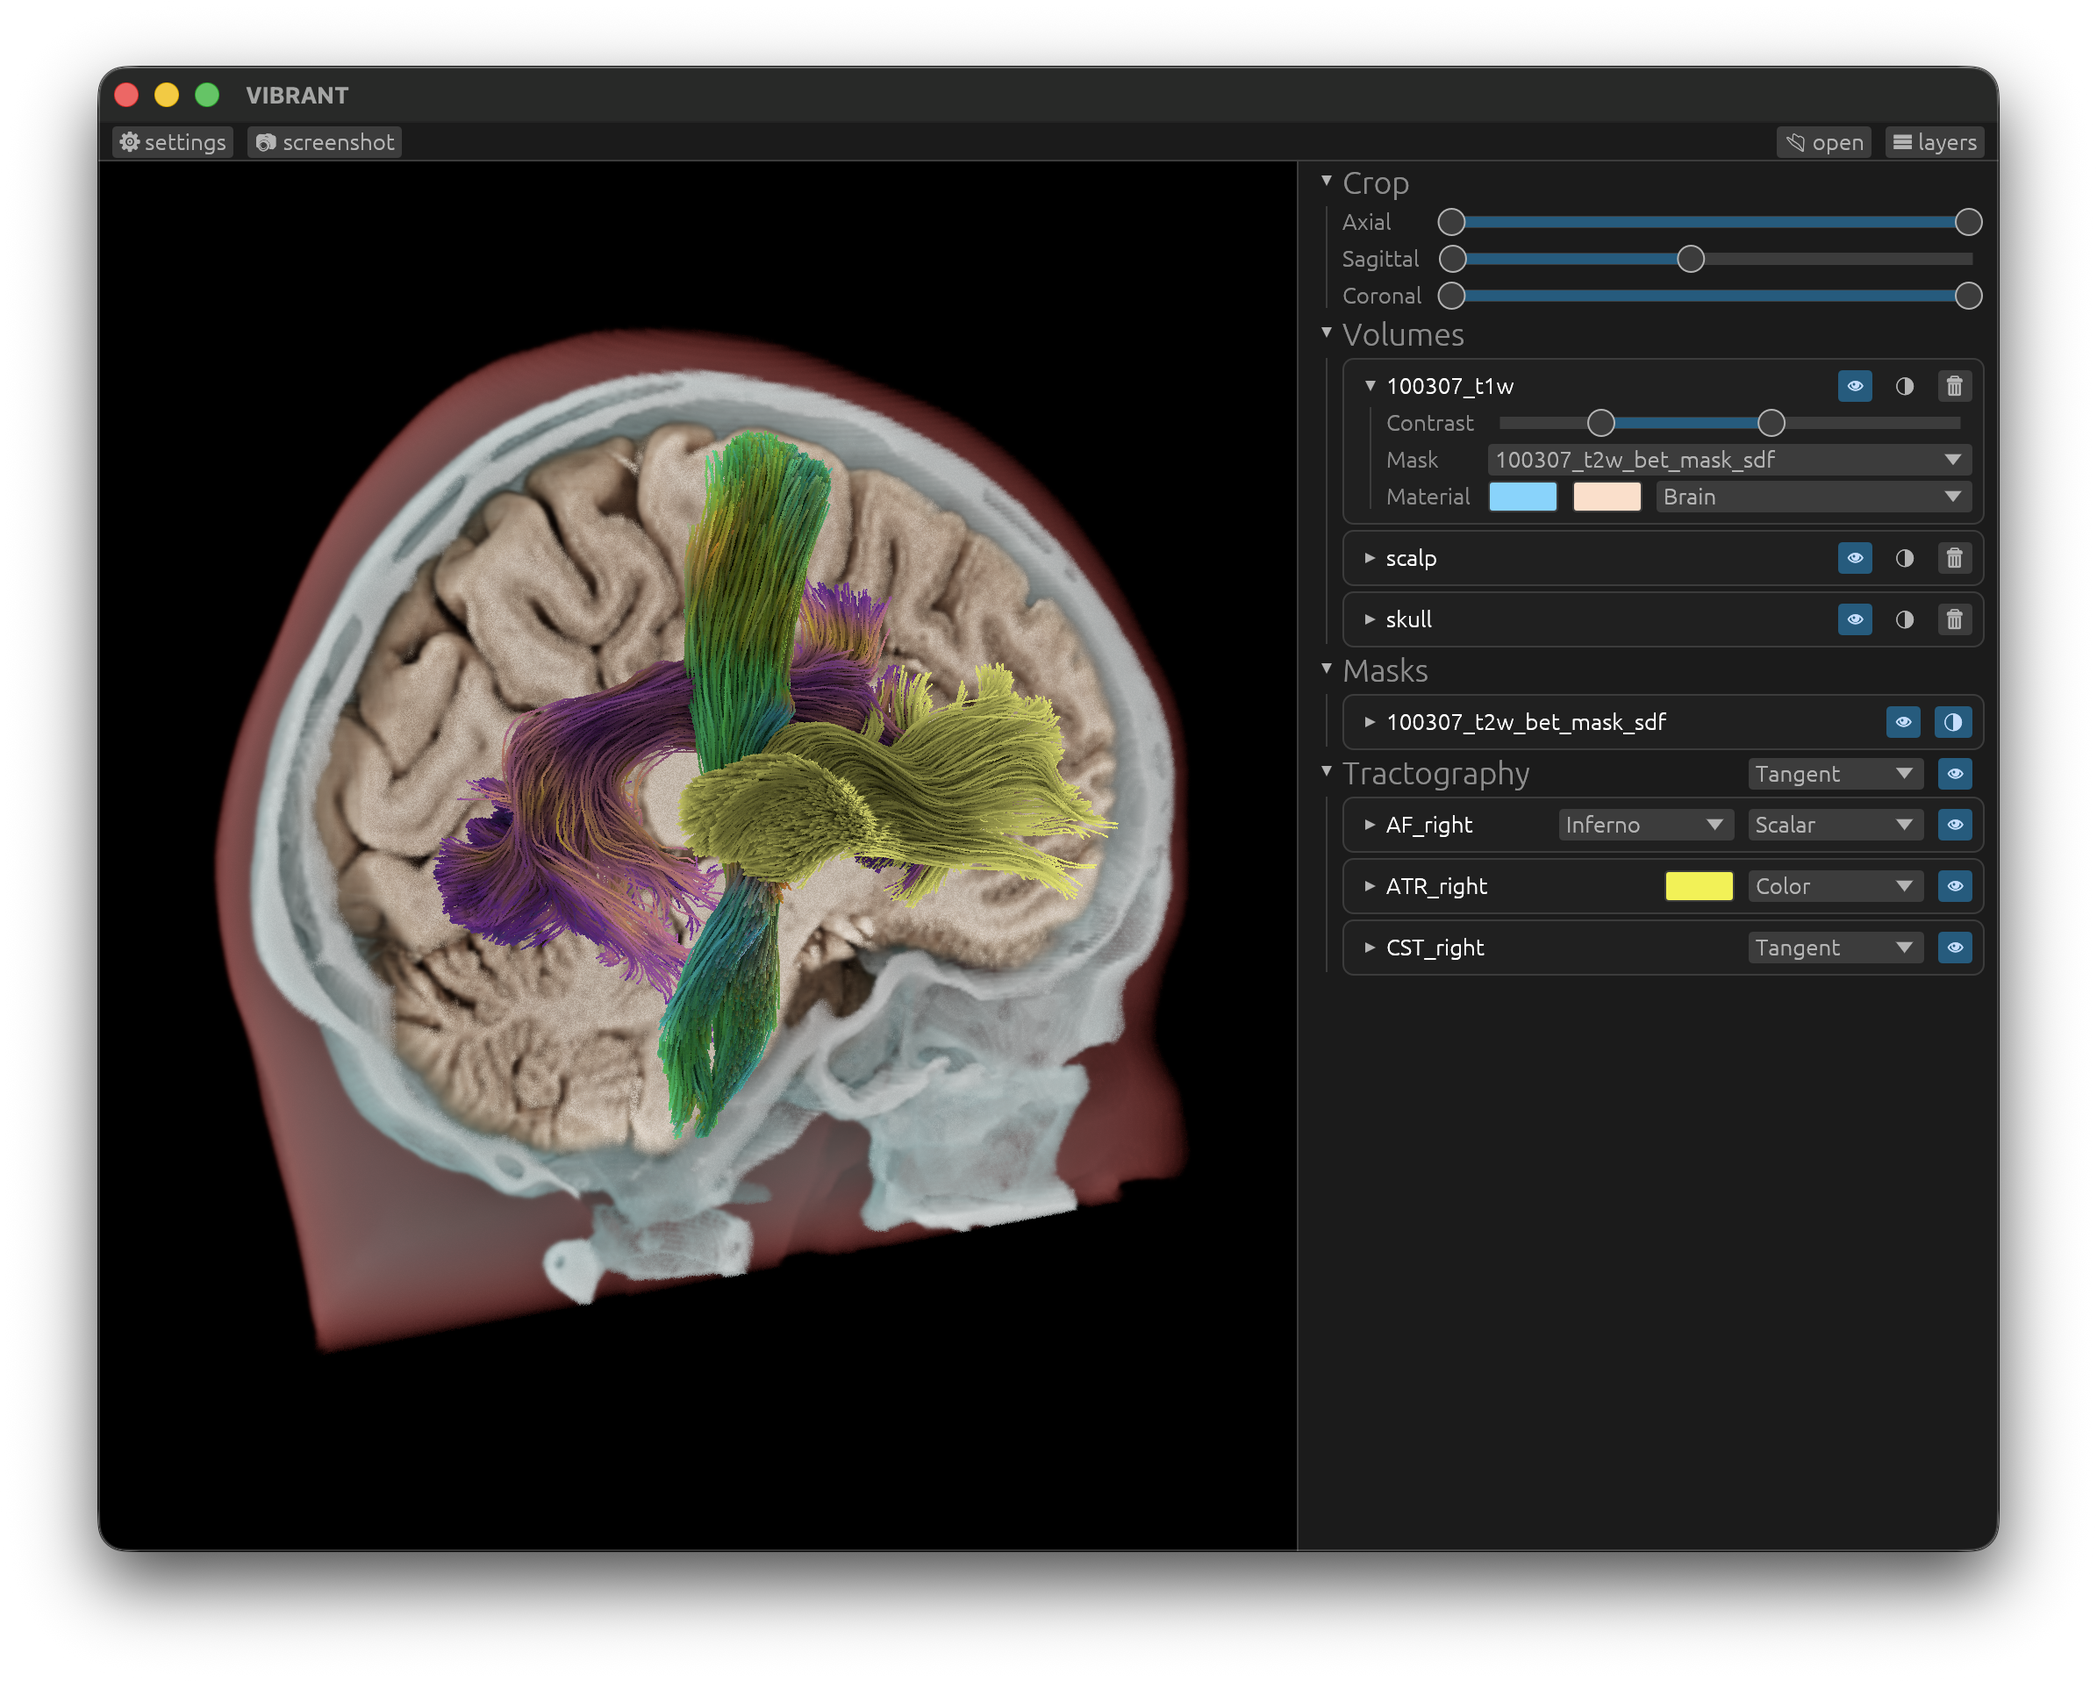
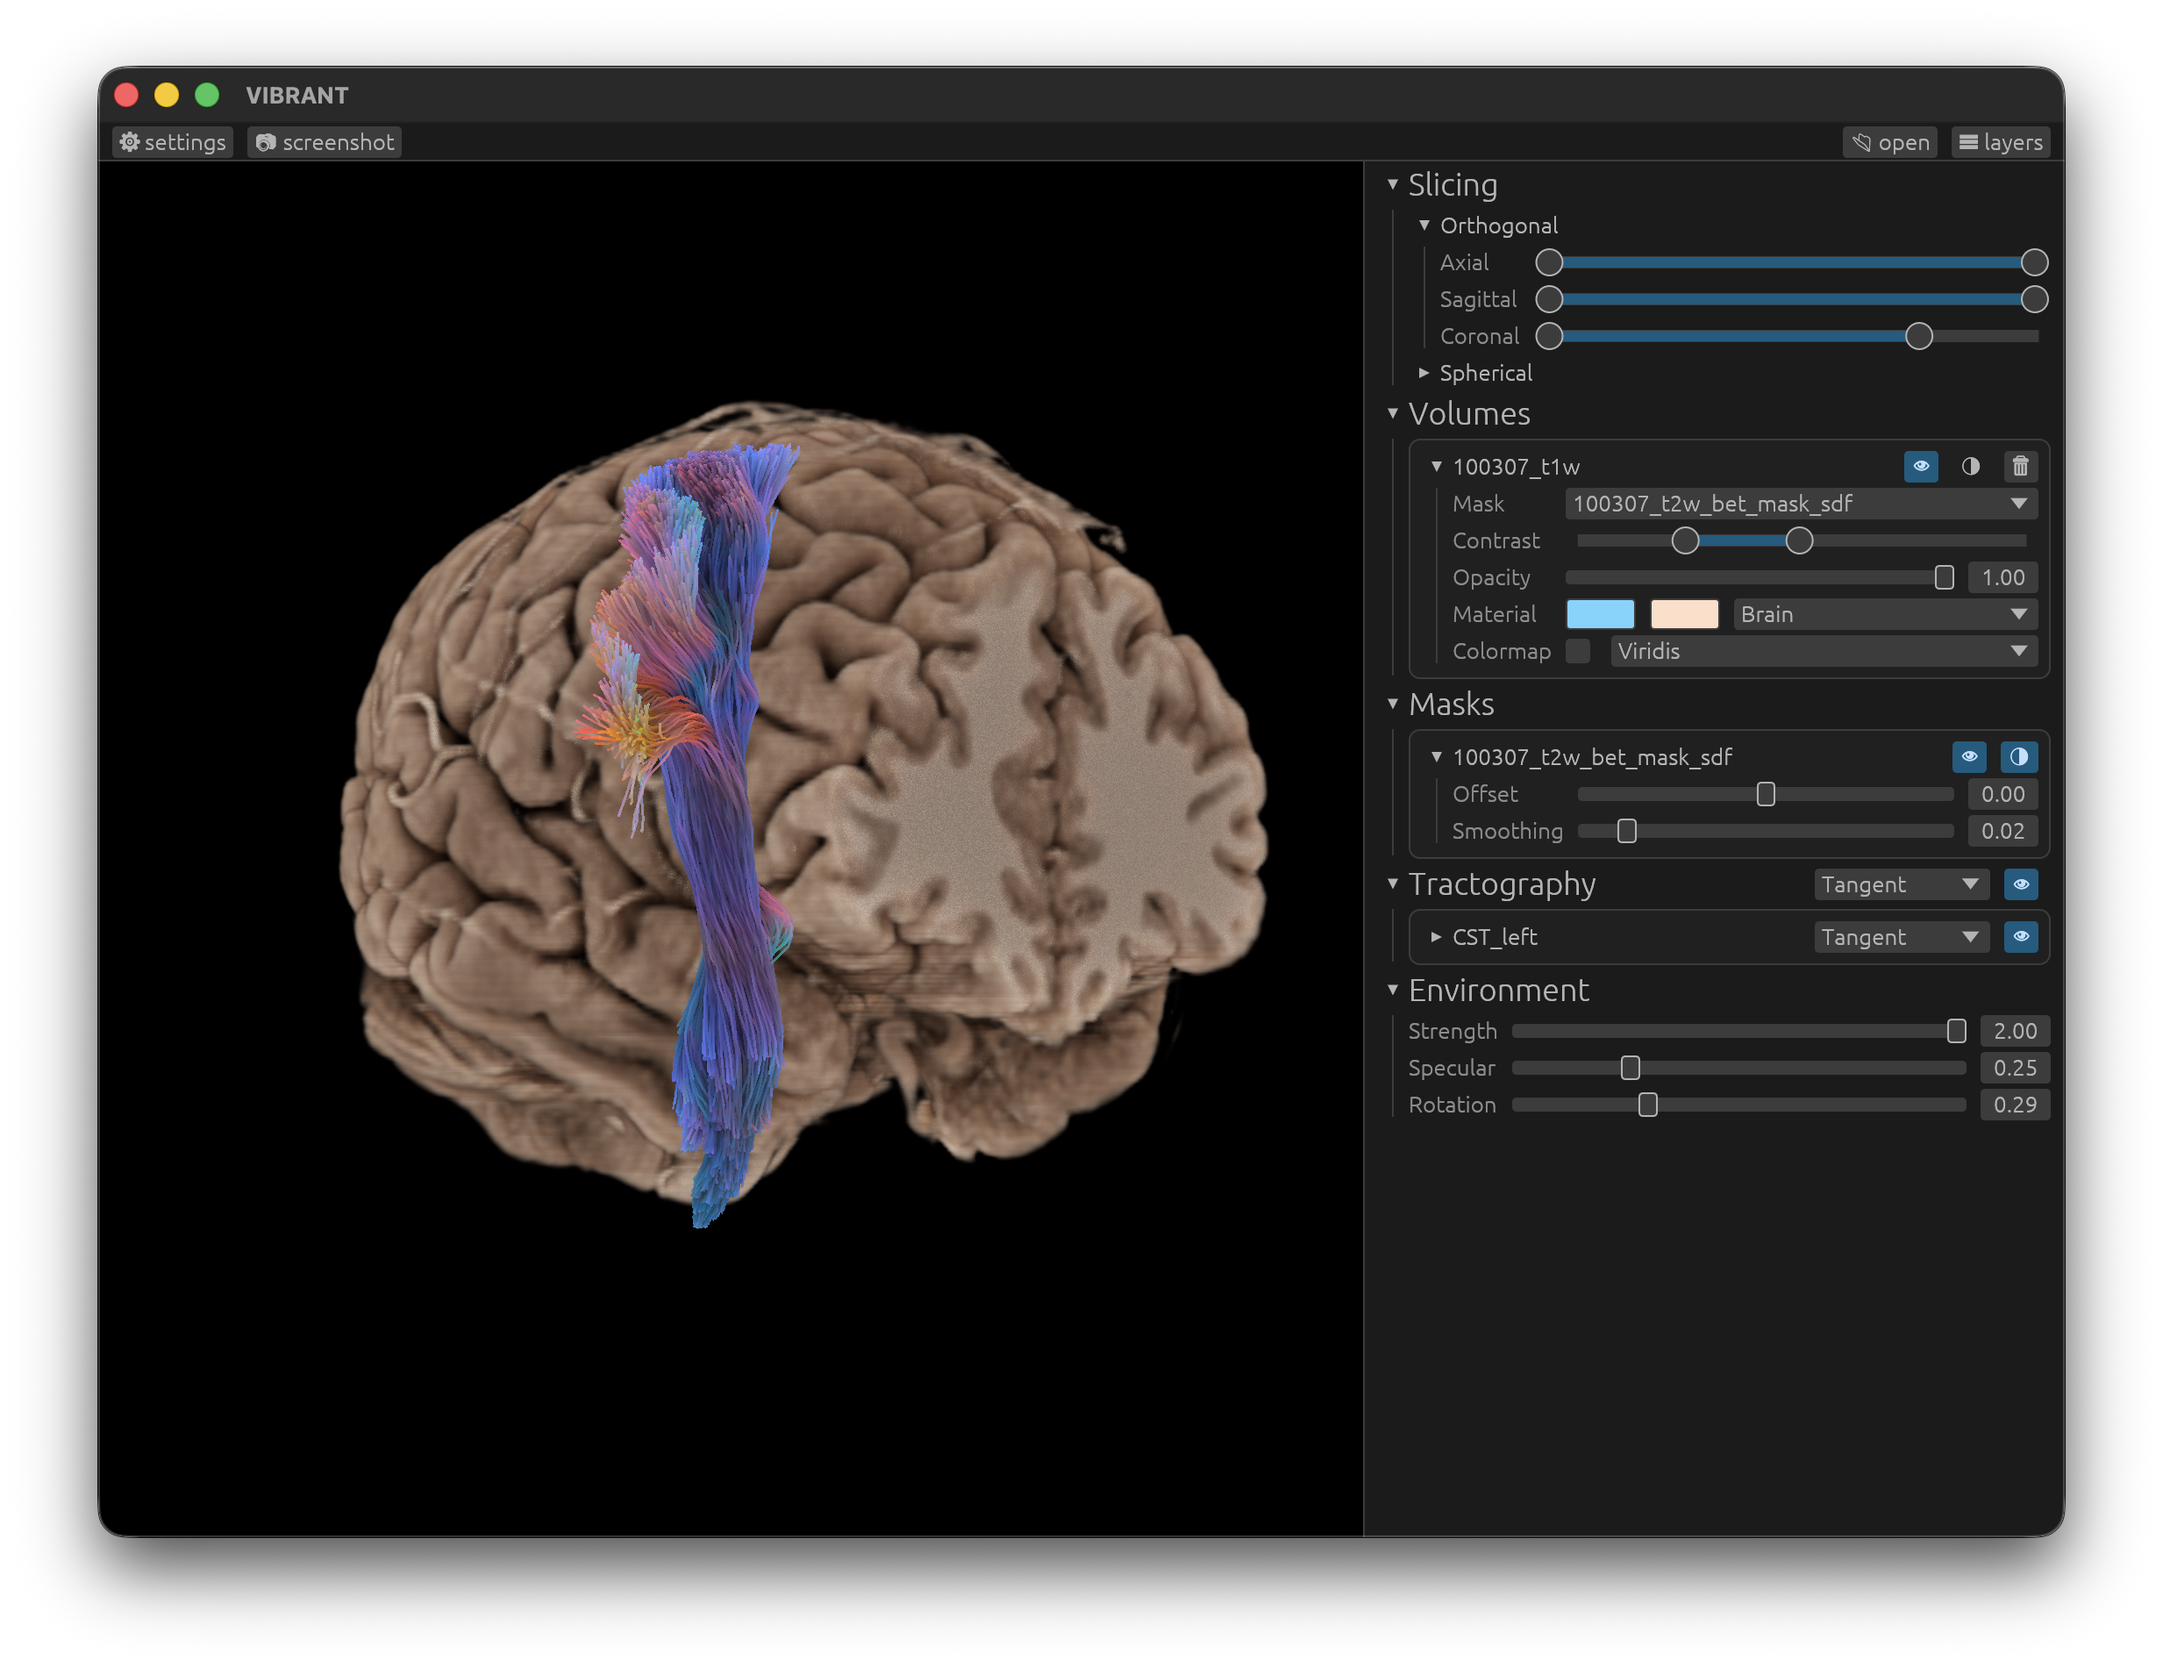
update readme, citations and pages

Changed region(s): [[0.0929, 0.1863, 0.5883, 0.8074], [0.6192, 0.0621, 0.9598, 0.9316], [0.031, 0.0311, 0.2167, 0.1242]]

diff --git a/vibrant/src/controller/widgets/volumes.rs b/vibrant/src/controller/widgets/volumes.rs
@@ -133,7 +133,7 @@ impl VolumesWidget {
                 ui.end_row();
 
                 ui.label("Opacity").on_hover_text("Adjust volume opacity");
-                ui.slider(&mut volume.opacity, 0.0..=1.0).track(self);
+                ui.slider(&mut volume.opacity, 0.0..=2.0).track(self);
                 ui.end_row();
 
                 ui.label("Material").on_hover_text("Adjust volume appearance");

diff --git a/vibrant/src/controller/widgets/hdri.rs b/vibrant/src/controller/widgets/hdri.rs
@@ -36,7 +36,7 @@ impl HdriWidget {
                 .num_columns(2)
                 .show(ui, |ui| {
                     ui.label("Strength");
-                    ui.slider(&mut hdri.settings_mut().strength, 0.0..=2.0)
+                    ui.slider(&mut hdri.settings_mut().strength, 0.0..=5.0)
                         .track(self);
                     ui.end_row();
 

diff --git a/README.md b/README.md
@@ -1,39 +1,72 @@
-# Vibrant
+# VIBRANT Visualizing Brain Anatomy and Tractography
 
-Visualizing Brain Anatomy and Tractography... Vibrantly!
+[VIBRANT](https://as-the-crow-flies.github.io/vibrant/) is a web-based cinematic anatomy and tractography tool.
 
 ![Screenshot of Vibrant Application](cover.png)
 
 ## Getting Started
 
-1. Install Rust using https://rustup.rs/
-2. Clone Git Repository `git clone git@github.com:as-the-crow-flies/vibrant.git`
-3. Build & Run the application using `cargo run`
+VIBRANT runs on the Web and natively on Windows, MacOS and Linux.
 
-## Tractography Rendering
+### Web Application
+
+[VIBRANT](https://as-the-crow-flies.github.io/vibrant/) is built for the web, using WebGPU to power its cinematic rendering. It runs in all [web browers that support WebGPU](https://github.com/gpuweb/gpuweb/wiki/Implementation-Status).
+
+### Running Natively
+
+[VIBRANT](https://as-the-crow-flies.github.io/vibrant/) can run natively on all major platforms, including Windows, MacOS and Linux. 
+
+It is built in Rust and therefore easy to compile for your platform!
+
+1. Install Rust using https://rustup.rs/
+2. Clone Git Repository 
+
+   `git clone git@github.com:as-the-crow-flies/vibrant.git`
+3. Build & Run the application
+
+   `cargo run`
+
+## Features
+
+### Tractography Rendering
 
 Load any number of `.tck` tract files to render them with vibrant colors and shadows.
 Tracts can be colored using their tangent (default), a color per file, or using a `.tsf` tract scalar file.
 
-### (Experimental) Tract Scalar File Support
+#### Tract Scalar File Support
 
 After loading `.tck` files, load any `.tsf` files with corresponding names to apply the scalar values to this tract, e.g. `test_AF_Left_fa.tsf` will be automatically applied to `AF_Left.tck`. A few sequential colormaps are supported.
 
-## NIfTI Volume Rendering
+| Tangent Coloring                  | Bundle Coloring                  | Tract Scalar File Coloring |
+| --------------------------------- | -------------------------------- | -------------------------------- |
+| ![](img/tractography-tangent.png) | ![](img/tractography-color.png)  | ![](img/tractography-scalar.png)  |
+
+### NIfTI Volume Rendering
 
 Load any scalar `.nii.gz` volume file to render it with given contrast and material. Load multiple NIfTI files to show ROIs or segmentations.
 
-### Masking
+#### Masking
 
 Load any `*mask*.nii.gz` NIfTI file with 'mask' anywhere in the name to import a mask. Then assign it to one or more volumes. Two types of masks are supported:
 
 - Binary Masks - the classic mask we all know and love
 - Signed Distance Field Masks - allowing for e.g. eroding the brain surface
 
+| Volume Rendering    | Cinematic Rendering           |
+| ------------------- | ----------------------------- |
+| ![](img/volume.png) | ![](img/volume-cinematic.png) |
+
 ### (Experimental) Environment Maps
 
 By loading a `.exr` HDRI environment texture (e.g. from [Poly Haven](https://polyhaven.com/hdris/studio)), the application uses it as a light source to render your with colored lighting.
 
-## Known Limitations
+## Citing this Repository
 
-- All loaded NIfTI files should have the exact same transform. The application cannot handle different volume resolutions at once yet.
+If you use this software in your work, please cite our article:
+```
+Kraaijeveld, B., Jalba, A. C., Vilanova, A., & Chamberland, M. (2026). Real‐Time Rendering of Dynamic Line Sets using Voxel Ray Tracing. Computer Graphics Forum, e70372. https://doi.org/10.1111/cgf.70372
+```
+
+## Acknowledgements
+
+This work was funded by the Dutch Research Council (NWO) grant number OCENW.M.22.352 awarded to Maxime Chamberland
